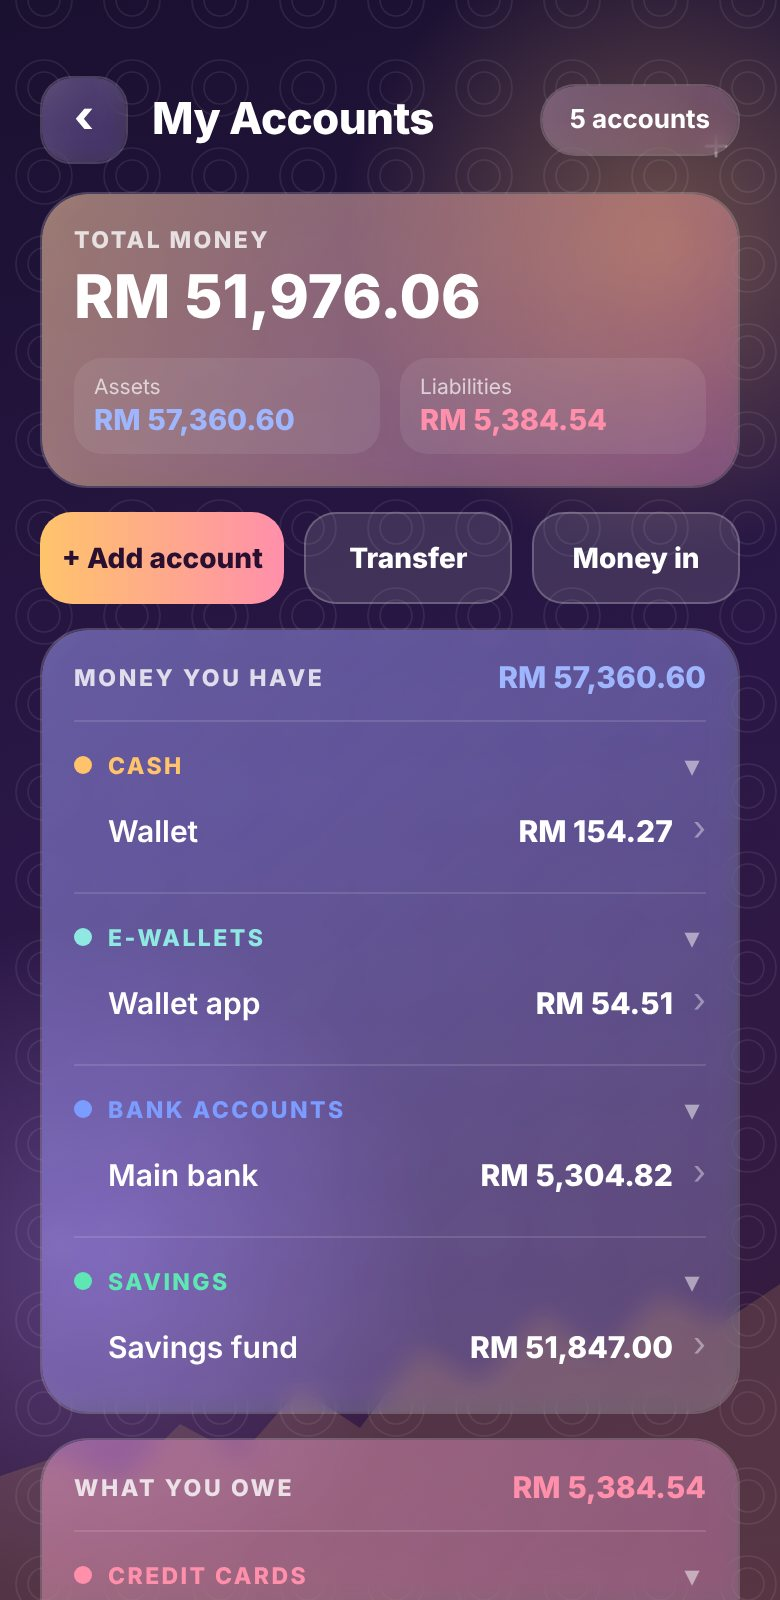
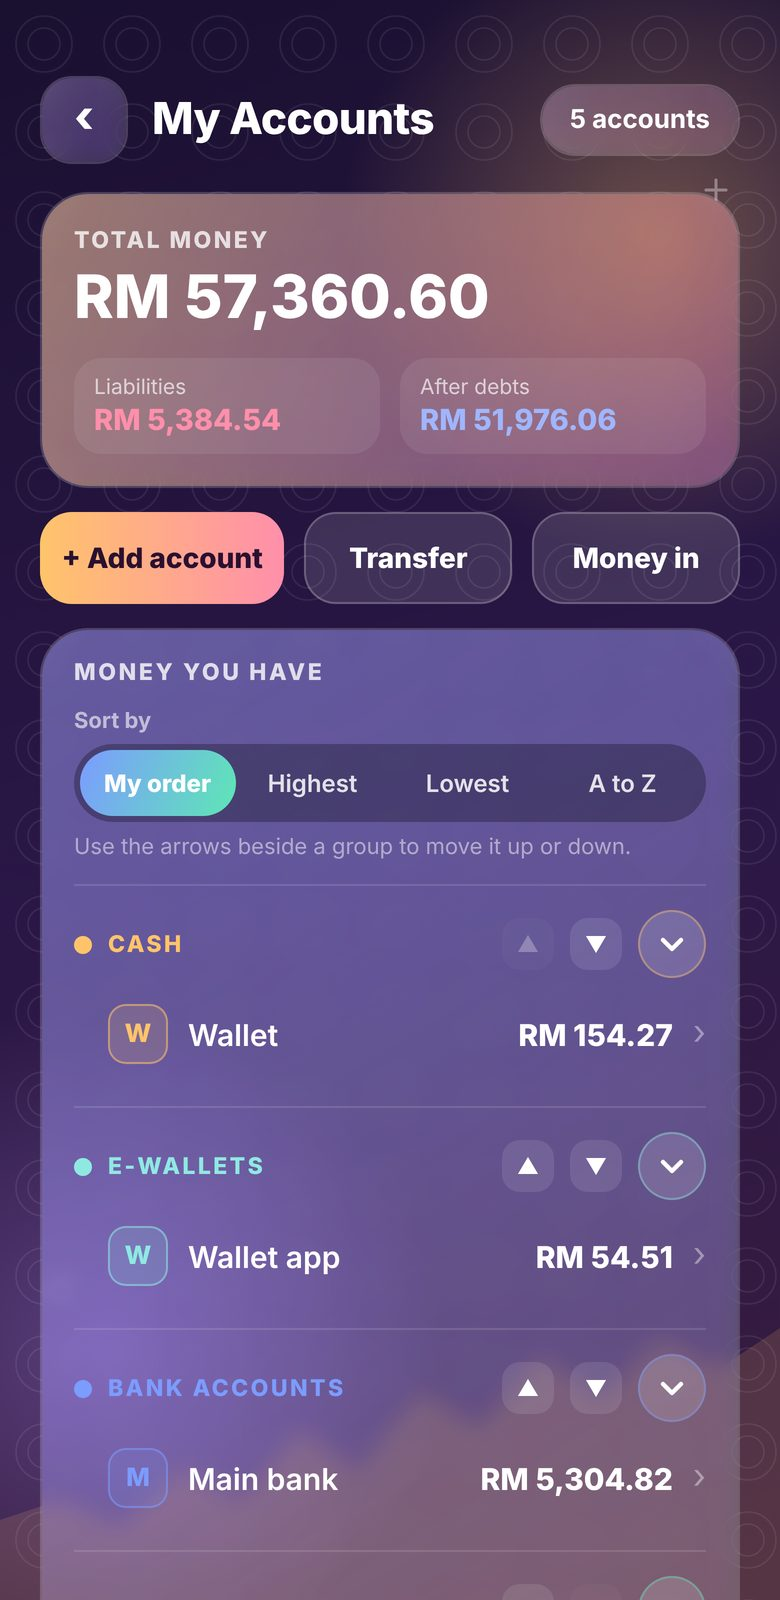
Website: refresh My Finance and My Accounts shots, add country and currency shot to the gallery
Claude-Session: https://claude.ai/code/session_01MzTUZncxr27ER36gchKoUE

diff --git a/public/welcome.html b/public/welcome.html
@@ -138,13 +138,14 @@ footer b{display:block;color:#dfe2ff;margin-bottom:8px;font-size:14px}footer a{d
 </section>
 
 <section>
-  <span class="eyebrow rv">A LOOK INSIDE</span><h2 class="rv">Calm, glassy and made for your phone</h2><p class="sub rv">The look changes softly with the time of day. Swipe to see more.</p>
+  <span class="eyebrow rv">A LOOK INSIDE</span><h2 class="rv">Calm, glassy and made for your phone</h2><p class="sub rv">The look changes softly with the time of day. Pick your own country and currency, so My Life 1.0 fits wherever you live. Swipe to see more.</p>
   <div class="shots rv">
     <figure><img src="welcome/home.jpg" alt="" loading="lazy"><figcaption>Home</figcaption></figure>
     <figure><img src="welcome/planner.jpg" alt="" loading="lazy"><figcaption>Planner</figcaption></figure>
     <figure><img src="welcome/islamic.jpg" alt="" loading="lazy"><figcaption>Islamic Hub</figcaption></figure>
     <figure><img src="welcome/finance.jpg" alt="" loading="lazy"><figcaption>My Finance</figcaption></figure>
     <figure><img src="welcome/accounts.jpg" alt="" loading="lazy"><figcaption>My Accounts</figcaption></figure>
+    <figure><img src="welcome/region.jpg" alt="" loading="lazy"><figcaption>Your country and currency</figcaption></figure>
     <figure><img src="welcome/habit.jpg" alt="" loading="lazy"><figcaption>Habit and Health</figcaption></figure>
     <figure><img src="welcome/energy.jpg" alt="" loading="lazy"><figcaption>Energy</figcaption></figure>
     <figure><img src="welcome/hologram.jpg" alt="" loading="lazy"><figcaption>Body hologram</figcaption></figure>
